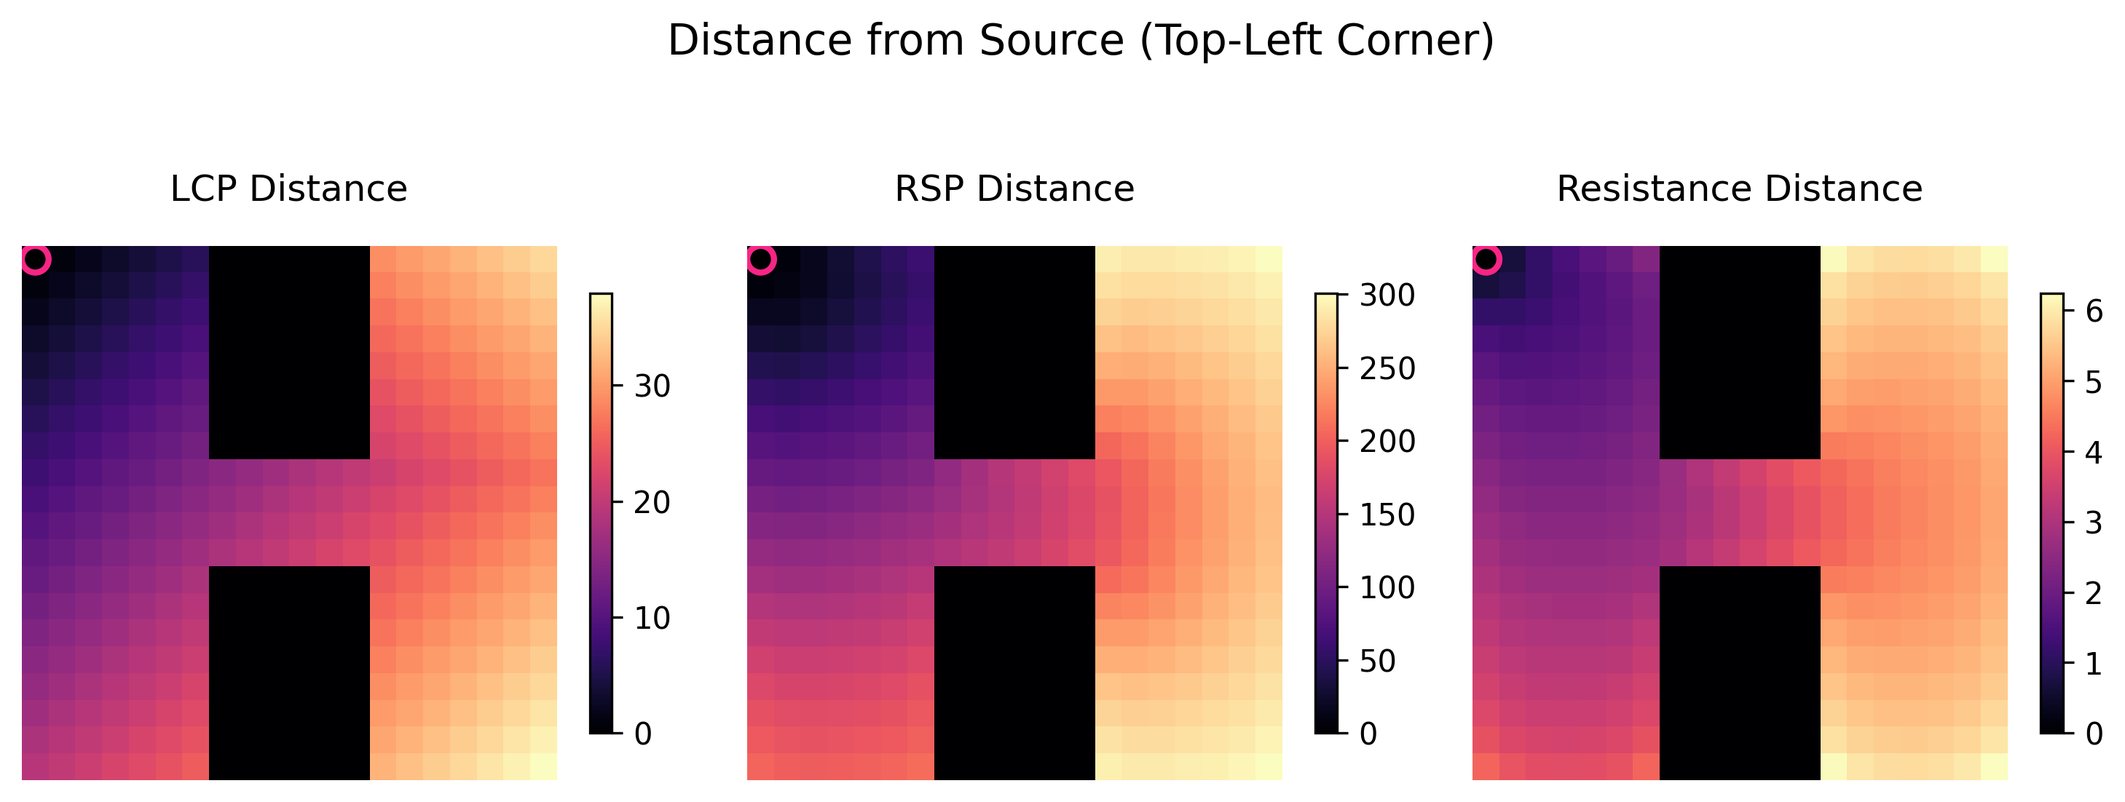
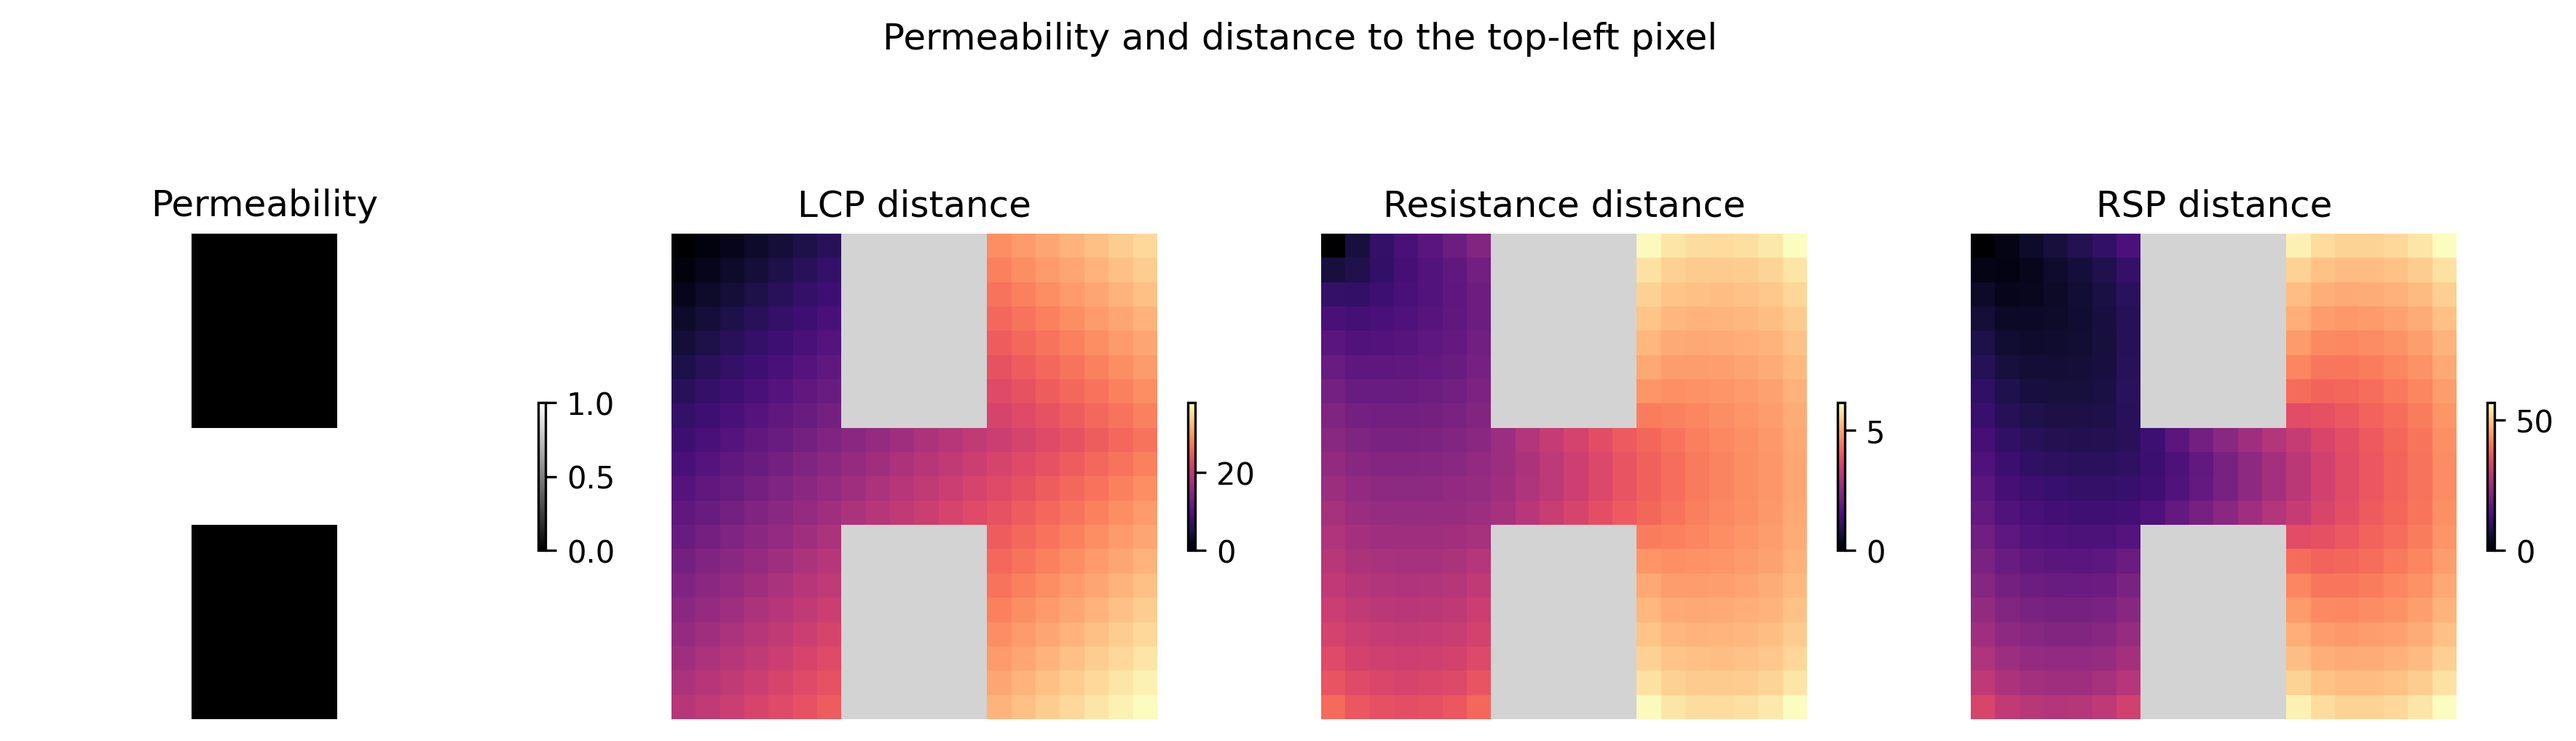
docs: revise quick start distance figure
Agent-Logs-Url: https://github.com/vboussange/jaxscape/sessions/91f0aa4f-b27a-4eb6-a05a-4cc1c8940d47

diff --git a/README.md b/README.md
@@ -47,6 +47,7 @@ from jaxscape import GridGraph
 from jaxscape import LCPDistance, ResistanceDistance, RSPDistance
 
 permeability = jnp.array(np.loadtxt("data/permeability.csv", delimiter=",")) + 0.001
+barriers = np.asarray(permeability <= 0.1)
 
 # Create a grid graph where edge weights are the average permeability of the two nodes
 grid = GridGraph(grid=permeability, fun=lambda x, y: (x + y) / 2)
@@ -60,22 +61,31 @@ distances = {
     "RSP distance": RSPDistance(theta=0.01, cost=lambda x: -jnp.log(x)),
 }
 
-fig, axs = plt.subplots(1, 3, figsize=(10, 4))
-for ax, (title, distance) in zip(axs, distances.items()):
+distance_cmap = plt.cm.magma.copy()
+distance_cmap.set_bad(color="lightgray")
+
+fig, axs = plt.subplots(1, 4, figsize=(12, 4))
+
+permeability_im = axs[0].imshow(permeability, cmap="gray", vmin=0, vmax=1)
+axs[0].axis("off")
+axs[0].set_title("Permeability")
+fig.colorbar(permeability_im, ax=axs[0], shrink=0.2)
+
+for ax, (title, distance) in zip(axs[1:], distances.items()):
     # Compute distances from all nodes to the source
     dist_to_node = distance(grid, source)
 
-    # Convert from node values to 2D array and mask low-permeability areas
-    dist_array = grid.node_values_to_array(dist_to_node.ravel())
-    dist_array = dist_array * (permeability > 0.1)  # Mask barriers
+    # Convert from node values to a 2D array and hide barrier cells
+    dist_array = np.asarray(grid.node_values_to_array(dist_to_node.ravel()))
+    dist_array = np.ma.masked_where(barriers, dist_array)
     
     # Plotting
-    im = ax.imshow(dist_array, cmap="magma")
+    im = ax.imshow(dist_array, cmap=distance_cmap)
     ax.axis("off")
     ax.set_title(title)
     fig.colorbar(im, ax=ax, shrink=0.2)
 
-fig.suptitle("Distance to top left pixel")
+fig.suptitle("Permeability and distance to the top-left pixel")
 plt.tight_layout()
 plt.show()
 ```

diff --git a/docs/index.md b/docs/index.md
@@ -37,6 +37,7 @@ from jaxscape import GridGraph
 from jaxscape import LCPDistance, ResistanceDistance, RSPDistance
 
 permeability = jnp.array(np.loadtxt("data/permeability.csv", delimiter=",")) + 0.001
+barriers = np.asarray(permeability <= 0.1)
 
 # Create a grid graph where edge weights are the average permeability of the two nodes
 grid = GridGraph(grid=permeability, fun=lambda x, y: (x + y) / 2)
@@ -50,22 +51,31 @@ distances = {
     "RSP distance": RSPDistance(theta=0.01, cost=lambda x: -jnp.log(x)),
 }
 
-fig, axs = plt.subplots(1, 3, figsize=(10, 4))
-for ax, (title, distance) in zip(axs, distances.items()):
+distance_cmap = plt.cm.magma.copy()
+distance_cmap.set_bad(color="lightgray")
+
+fig, axs = plt.subplots(1, 4, figsize=(12, 4))
+
+permeability_im = axs[0].imshow(permeability, cmap="gray", vmin=0, vmax=1)
+axs[0].axis("off")
+axs[0].set_title("Permeability")
+fig.colorbar(permeability_im, ax=axs[0], shrink=0.2)
+
+for ax, (title, distance) in zip(axs[1:], distances.items()):
     # Compute distances from all nodes to the source
     dist_to_node = distance(grid, source)
 
-    # Convert from node values to 2D array and mask low-permeability areas
-    dist_array = grid.node_values_to_array(dist_to_node.ravel())
-    dist_array = dist_array * (permeability > 0.1)  # Mask barriers
+    # Convert from node values to a 2D array and hide barrier cells
+    dist_array = np.asarray(grid.node_values_to_array(dist_to_node.ravel()))
+    dist_array = np.ma.masked_where(barriers, dist_array)
     
     # Plotting
-    im = ax.imshow(dist_array, cmap="magma")
+    im = ax.imshow(dist_array, cmap=distance_cmap)
     ax.axis("off")
     ax.set_title(title)
     fig.colorbar(im, ax=ax, shrink=0.2)
 
-fig.suptitle("Distance to top left pixel")
+fig.suptitle("Permeability and distance to the top-left pixel")
 plt.tight_layout()
 plt.show()
 ```
